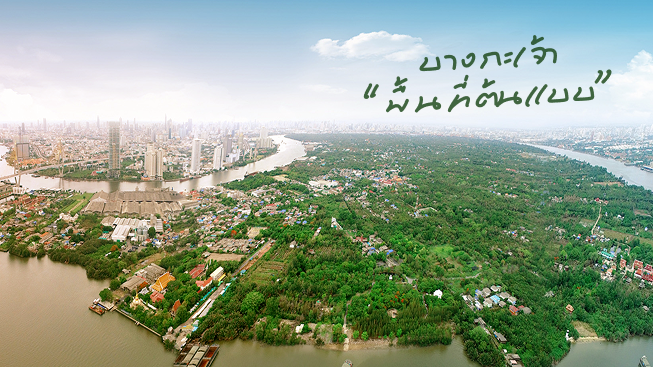
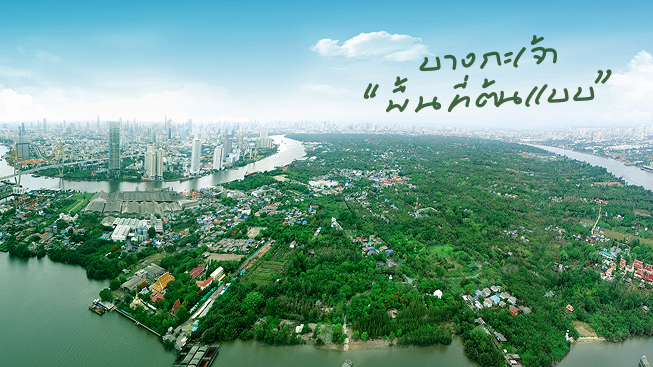
Update Project Images

diff --git a/app/globals.css b/app/globals.css
@@ -539,7 +539,7 @@
    13. Projects Section
 ======================================== */
 
-.work {
+.project {
   padding: 30px 3% 58px;
 }
 
@@ -576,7 +576,7 @@
 .project-image {
   height: 210px;
 
-  background-size: 400%;
+  background-size: 100%;
   background-position: center;
 }
 
@@ -624,6 +624,66 @@
   font-weight: 700;
 }
 
+
+/* Project Card Hover Effect */
+.project-card {
+  overflow: hidden;
+  border-radius: 18px;
+  transition:
+    transform 0.3s ease,
+    box-shadow 0.3s ease;
+}
+
+.project-card:hover {
+  transform: translateY(-5px);
+  box-shadow: 0 12px 28px rgba(23, 78, 27, 0.12);
+}
+
+/* Zoom รูปเล็กน้อย */
+.project-image {
+  overflow: hidden;
+  background-size: cover;
+  background-position: center;
+  transition: background-size 0.4s ease;
+}
+
+/* ขยายการ์ดโดยไม่ทำให้รูปหรือข้อความกระโดด */
+.project-card:hover .project-image {
+  transform: scale(1.02);
+}
+
+/* ให้รูปขยายอย่างนุ่มนวล */
+.project-image {
+  transition: transform 0.4s ease;
+}
+
+/* ลิงก์รายละเอียด */
+.project-card .card-copy a {
+  display: inline-block;
+  transition:
+    transform 0.25s ease,
+    color 0.25s ease;
+}
+
+.project-card:hover .card-copy a {
+  transform: translateX(4px);
+  color: #4c8b36;
+}
+
+/* รองรับผู้ใช้ที่ตั้งค่าลด animation */
+@media (prefers-reduced-motion: reduce) {
+  .project-card,
+  .project-image,
+  .project-card .card-copy a {
+    transition: none;
+  }
+
+  .project-card:hover,
+  .project-card:hover .project-image,
+  .project-card:hover .card-copy a {
+    transform: none;
+  }
+}
 
 /* ========================================
    14. Belief Section

diff --git a/components/Projects.tsx b/components/Projects.tsx
@@ -3,17 +3,17 @@ import { projects } from "../data/projects";
 
 export default function Projects() {
   return (
-    <section id="work" className="work">
+    <section id="project" className="project">
       <div className="section-heading">
         <div>
-          <p className="eyebrow">• OUR WORK</p>
+          <p className="eyebrow">• OUR PROJECTS</p>
           <h2>โครงการของเรา</h2>
           <p>
             หลากหลายโครงการที่เราลงมือทำ เพื่อชุมชนที่ยั่งยืน
           </p>
         </div>
 
-        <a href="#contact">ดูโครงการทั้งหมด →</a>
+        <a href="/projects">ดูโครงการทั้งหมด →</a>
       </div>
 
       <div className="project-grid">

diff --git a/components/Header.tsx b/components/Header.tsx
@@ -80,9 +80,9 @@ export default function Header() {
         </a>
 
         <a
-          href="/work"
-          className={pathname === "/work" ? "active" : ""}
-          aria-current={pathname === "/work" ? "page" : undefined}
+          href="/projects"
+          className={pathname === "/projects" ? "active" : ""}
+          aria-current={pathname === "/projects" ? "page" : undefined}
         >
           โครงการ
         </a>

diff --git a/components/Sections.tsx b/components/Sections.tsx
@@ -24,7 +24,7 @@ export function About() {
           และสิ่งแวดล้อมเข้าด้วยกัน
         </p>
 
-        <a className="button outline" href="#collab">
+        <a className="button outline" href="/about">
           รู้จักเราเพิ่มเติม →
         </a>
       </div>

diff --git a/components/Hero.tsx b/components/Hero.tsx
@@ -32,7 +32,7 @@ export default function Hero() {
             รู้จัก Learn Do <span>→</span>
           </a>
 
-          <a className="button ghost" href="#work">
+          <a className="button ghost" href="#project">
             สิ่งที่เราทำ
           </a>
         </div>

diff --git a/app/projects/page.tsx b/app/projects/page.tsx
@@ -4,7 +4,7 @@ import { About, Belief, Collab } from "../../components/Sections";
 import Projects from "../../components/Projects";
 import Footer from "../../components/Footer";
 
-export default function WorkPage() {
+export default function ProjectsPage() {
   return (
     <main
       style={{
